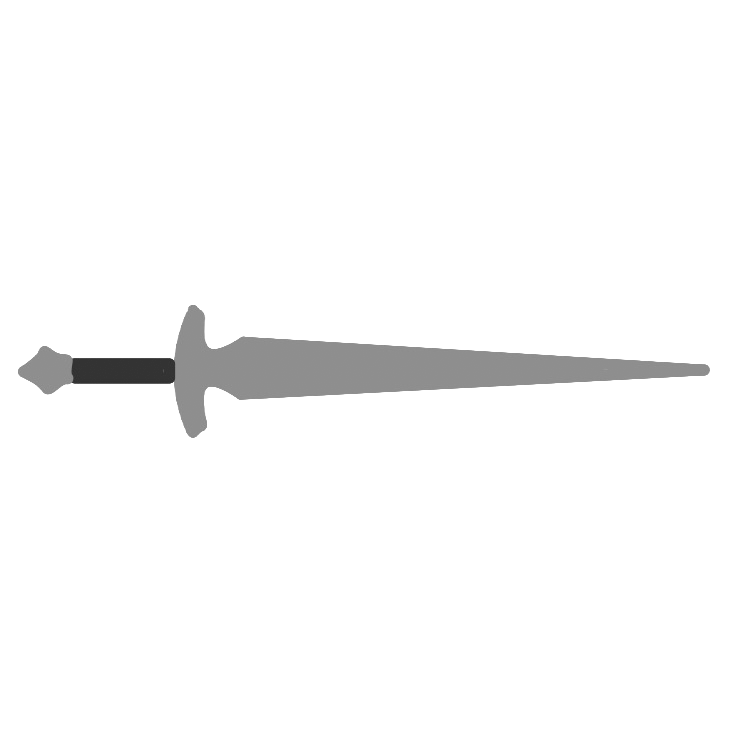
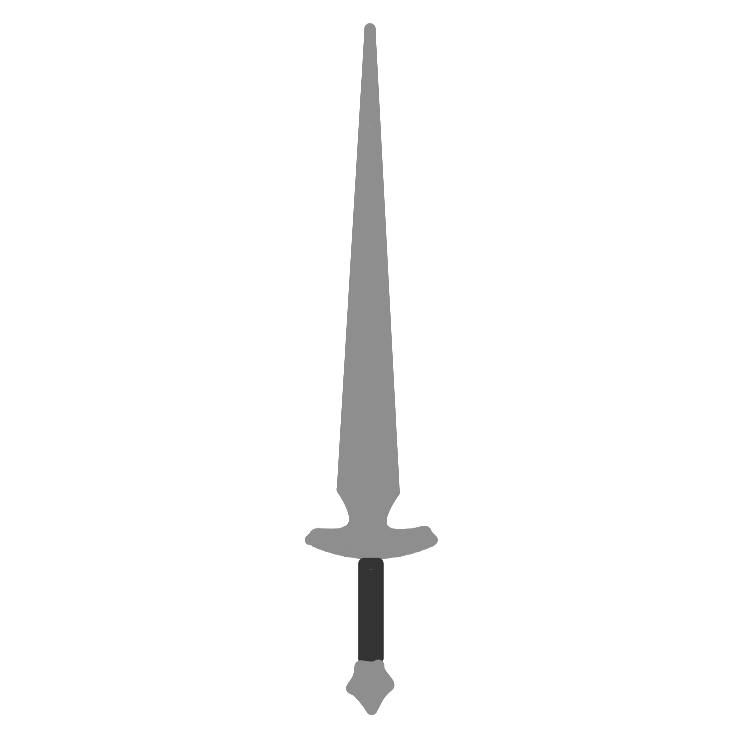
usar graficos ,(rotacion renderer)

Changed region(s): [[0.03, 0.03, 0.9905, 0.9905]]

diff --git a/src/GolpeAtaque.cpp b/src/GolpeAtaque.cpp
@@ -31,16 +31,22 @@ Vector2D GolpeAtaque::getPunta(const Vector2D& posJugador, const Vector2D& dir) 
 }
 
 void GolpeAtaque::dibuja(const Renderer& renderer, const Vector2D& posJugador,
-    const Vector2D& dir) const {
-    double t = anguloGolpe / ANGULO_MAX; // posicion inicial es 45º y final es en 0º
+    const Vector2D& dir) const
+{
+    double t = anguloGolpe / ANGULO_MAX;
 
     Vector2D dirHorizontal = (dir.x < 0) ? Vector2D{ -1.0, 0.0 } : Vector2D{ 1.0, 0.0 };
     Vector2D arriba{ 0.0, -1.0 };
 
-    // hace el arco desde 45º a 0º
     Vector2D dirEspada = (dirHorizontal * (1.0 - t) + arriba * t).unitario();
     Vector2D punta = posJugador + dirEspada * longitud;
+    Vector2D centroEspada = posJugador + dirEspada * (longitud * 0.5);
 
-    renderer.dibujaLinea(posJugador, punta, { 1.0f, 1.0f, 0.0f });
-
+    if (sprite) {
+        double angulo = std::atan2(dirEspada.y, dirEspada.x) * (180.0 / Config::PI) + 90.0;
+        renderer.dibujaSpriteRotado(sprite, posJugador, longitud*0.35, longitud, angulo);
+    }
+    else {
+        renderer.dibujaLinea(posJugador, punta, { 1.0f, 1.0f, 0.0f });
+    }
 }

diff --git a/src/Tablero.cpp b/src/Tablero.cpp
@@ -157,6 +157,7 @@ TableroAccion Tablero::tecla(unsigned char key)
             //tablero avisa de que se he elegido combate, haciendo que juego ponga el estado ARENA y limpiando el flag del combate pendiente para no volver a entrar 
             else if (hayCombatePendiente()) {
                 limpiarCombatePendiente();
+                printf("hayCombatePendiente: %d\n", hayCombatePendiente());
                 return TableroAccion::IR_ARENA;
             }
             break;
@@ -354,6 +355,8 @@ bool Tablero::moverPieza(PosicionMatriz origen, PosicionMatriz destino)
 		//haciendo que si el atacante gana, se queda con la misma defensa con la que entraba (la de destino) y si el defensor gana se queda con la misma ya que no se mueve de casilla.
 
         combatePendiente = true; //FLAG PARA CAMBIAR A ARENA
+        printf("combate pendiente activado, origen=(%d,%d) destino=(%d,%d)\n",
+            origen.fila, origen.columna, destino.fila, destino.columna);
         origenCombate = origen;
         destinoCombate = destino;
 

diff --git a/includes/Renderer.h b/includes/Renderer.h
@@ -25,10 +25,12 @@ public:
 	void dibujaLinea(const Vector2D& limite1, const Vector2D& limite2, const Color& color)const;
 	void cuadradoParaPruebas()const;
 	void dibujaOvalo(const Vector2D& centro, const Color& color, double radioX, double radioY) const;
+	void dibujaSpriteRotado(const char* rutaPNG, const Vector2D& base, double ancho, double alto, double angulo) const;
 
 	void dibujaSprite(const char* rutaPNG, const Vector2D& centro, double ancho, double alto) const;
 	void dibujaSprite(const ETSIDI::Sprite& sprite, const Vector2D& centro, double ancho, double alto) const;
 	void dibujaTexto(const std::string& texto, const Vector2D& pos, const Color& color, int size, AlineacionTexto alineacion) const;
+
 
 private:
 	void dibujaColor(const Color& color)const { glColor3f(color.r, color.g, color.b); }

diff --git a/src/Renderer.cpp b/src/Renderer.cpp
@@ -142,3 +142,23 @@ void Renderer::dibujaTexto(const std::string& texto, const Vector2D& pos, const 
 	glEnable(GL_DEPTH_TEST);
 }
 
+void Renderer::dibujaSpriteRotado(const char* rutaPNG, const Vector2D& base, double ancho, double alto, double angulo) const
+{
+	glDisable(GL_LIGHTING);
+	glDisable(GL_DEPTH_TEST);
+	glMatrixMode(GL_MODELVIEW);
+
+	glPushMatrix();
+	glTranslatef(base.x, base.y, 0.0f);
+	glRotatef(angulo, 0.0f, 0.0f, 1.0f);
+
+	// dibuja con la base anclada en el origen, la punta hacia arriba
+	ETSIDI::Sprite sprite(rutaPNG, -ancho / 2.0 + 20.0, -alto / 2.0, ancho, alto);
+	sprite.flip(false, true);
+	sprite.draw();
+
+	glPopMatrix();
+
+	glEnable(GL_LIGHTING);
+	glEnable(GL_DEPTH_TEST);
+}

diff --git a/src/Juego.cpp b/src/Juego.cpp
@@ -108,8 +108,9 @@ void Juego::tecla(unsigned char key)
 			estado = EstadoJuego::PAUSA;
 			break;
 		case TableroAccion::IR_ARENA:
+            printf("atacante: %p, defensor: %p\n", tablero.getAtacante(), tablero.getDefensor());
             arena.inicializa(tablero.getAtacante(), tablero.getDefensor());
-			estado = EstadoJuego::ARENA;
+            estado = EstadoJuego::ARENA;
 			break;
         default:
             break;

diff --git a/src/Caballero.cpp b/src/Caballero.cpp
@@ -12,7 +12,7 @@ Caballero::Caballero(std::string nombre, Bando b) : Pieza(
     b,                             
     TipoMovimiento::CAMINA         
 ) {
-    golpe = new GolpeAtaque();
+    golpe = new GolpeAtaque(caballero.grafAtaque, 80.0);
 }
 void Caballero::dibuja(const Renderer& renderer, const Vector2D& centro, double ancho, double alto) const {
     renderer.dibujaSprite(caballero.graf, centro, ancho, alto);

diff --git a/includes/Grafpiezas.h b/includes/Grafpiezas.h
@@ -43,7 +43,7 @@ inline constexpr TiposPiezas fenix = {
 };
 
 inline constexpr TiposPiezas caballero = {
-	"assets/Graficos/caballero.png",
+	"assets/Graficos/caballero1.png",
 	"assets/Graficos/espada.PNG"
 };
 
@@ -85,6 +85,6 @@ inline constexpr TiposPiezas dragon = {
 };
 
 inline constexpr TiposPiezas duende = {
-	"assets/Graficos/duende.png",
+	"assets/Graficos/duende1.png",
 	"assets/Graficos/garrote.PNG"
 };

diff --git a/src/Duende.cpp b/src/Duende.cpp
@@ -12,7 +12,7 @@ Duende::Duende(std::string nombre, Bando b) : Pieza(
     b,
     TipoMovimiento::CAMINA         
 ) {
-    golpe = new GolpeAtaque();
+    golpe = new GolpeAtaque(duende.grafAtaque, 80.0);
 }
 void Duende::dibuja(const Renderer& renderer,const Vector2D& centro, double ancho, double alto) const {
     renderer.dibujaSprite(duende.graf, centro, ancho, alto);
